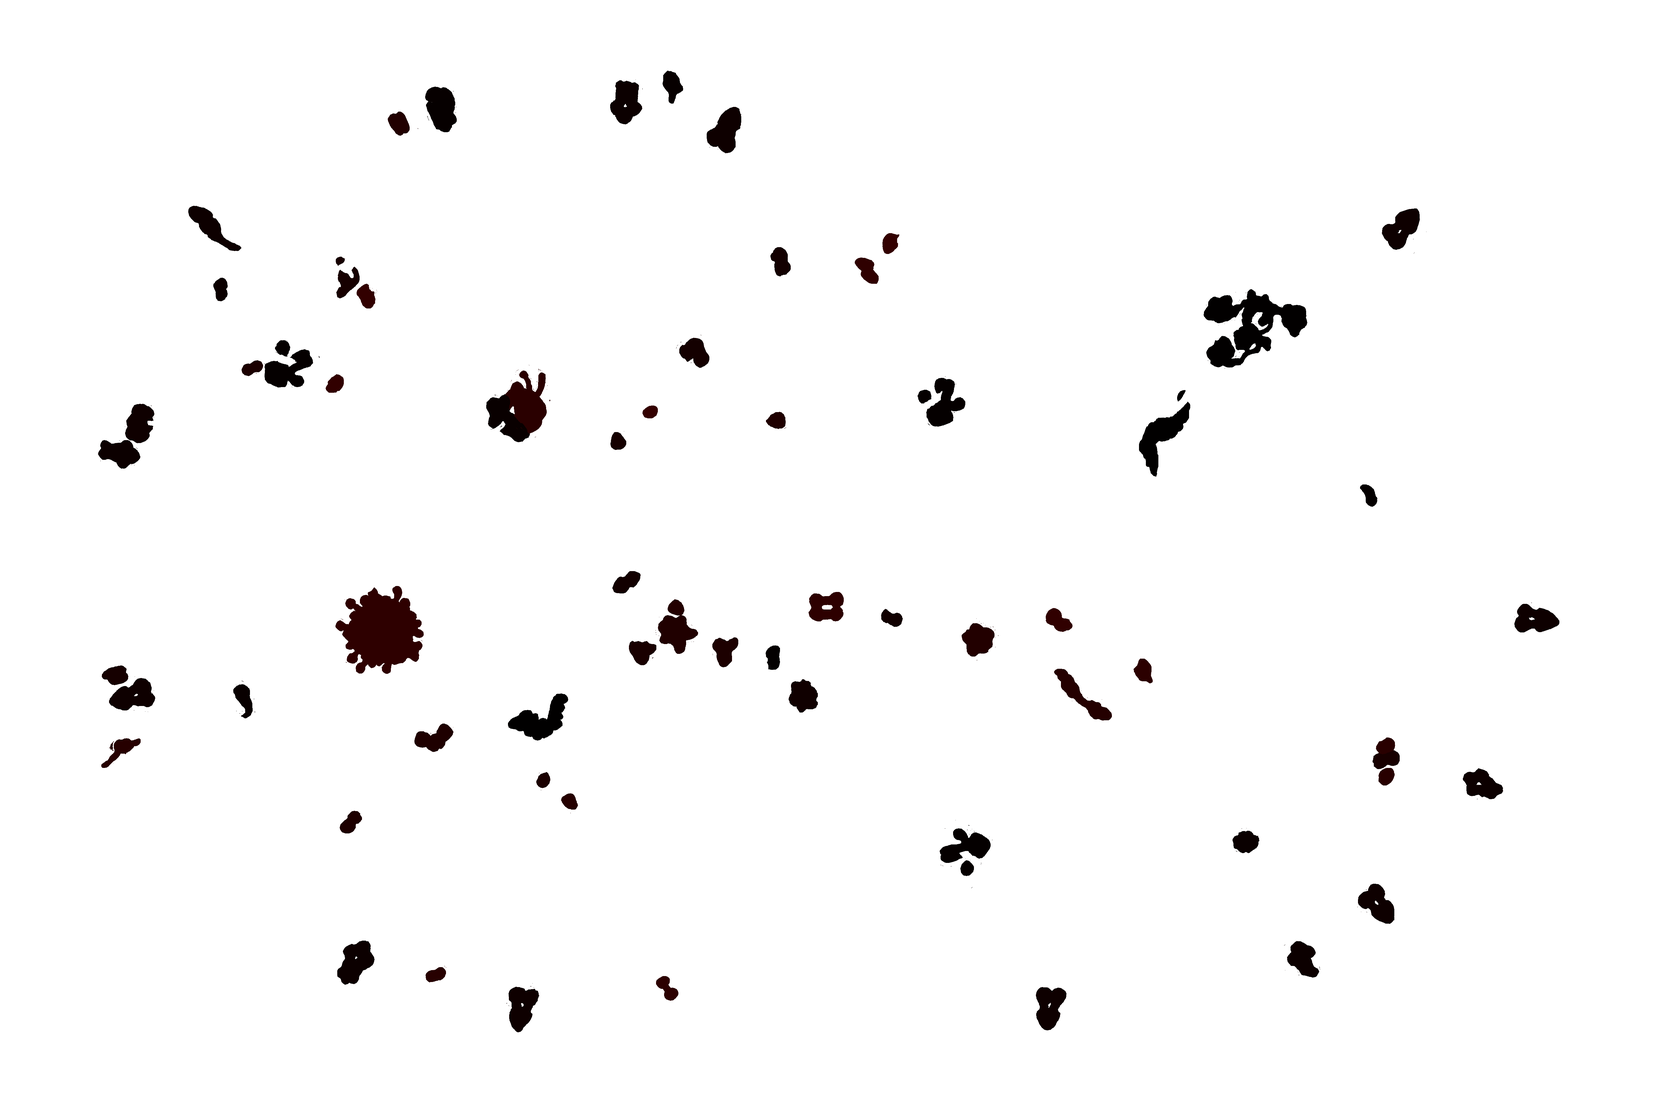
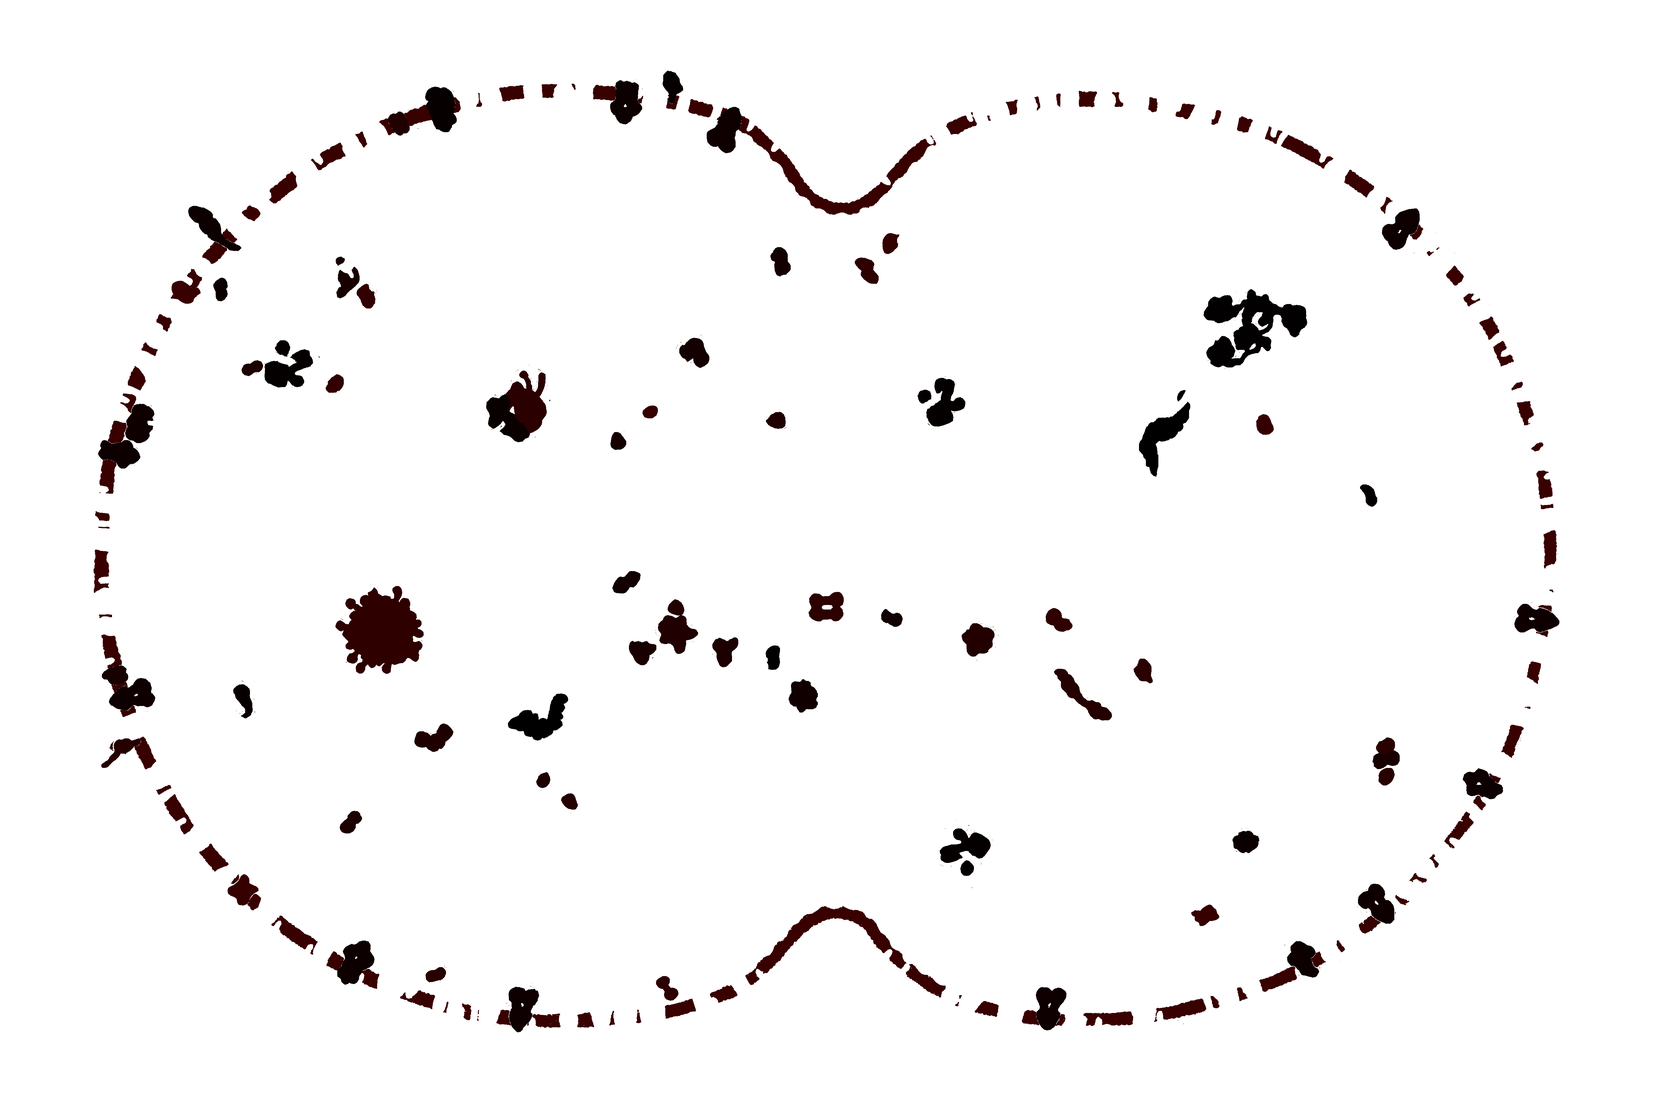
Add clickable phospholipid membrane with related-enzyme highlighting
Adds the membrane band as a product (id "membrane" — a non-gene
structural entry, empty loci, no locus-number cutout naming) along
with the 4 remaining phosphatidylglycerol pathway enzymes: PlsC
(0512), CdsA (0304), PgsA (0875), and PgpA (0214), completing the
fatty-acid-uptake-to-finished-lipid chain alongside the previously
added FakA/FakB1/FakB2/PlsX/PlsY/AcpA/AcpS.

New relatedProductIds field (only set by the membrane) drives a
one-directional expanded-highlight: hovering/selecting the membrane
spotlights its own shape plus all 11 pathway enzymes' cutouts in the
illustration and their loci on the genome track, while hovering any
individual enzyme on its own still only highlights itself. Detail
panel gains a "Built by" section listing and linking to those related
products; the Loci table hides entirely for products (like the
membrane) with none of their own. validate-products.py now checks
relatedProductIds references resolve to real product ids.

diff --git a/app.js b/app.js
@@ -15,7 +15,11 @@
   const detailName = document.getElementById("detail-name");
   const detailFullName = document.getElementById("detail-fullname");
   const detailDescription = document.getElementById("detail-description");
+  const detailLociHeading = document.getElementById("detail-loci-heading");
+  const detailLociTable = document.getElementById("detail-loci-table");
   const detailLociBody = document.getElementById("detail-loci-body");
+  const detailRelatedHeading = document.getElementById("detail-related-heading");
+  const detailRelated = document.getElementById("detail-related");
   const detailLinks = document.getElementById("detail-links");
   const detailClose = document.getElementById("detail-close");
   const trackSvg = document.getElementById("genome-track");
@@ -36,6 +40,20 @@
 
   function getProduct(id) {
     return PRODUCTS.find((p) => p.id === id) || null;
+  }
+
+  // The active (hover-or-selection) product, plus any products it declares
+  // as `relatedProductIds` (e.g. the membrane lists the enzymes that build
+  // it) — everything in this set gets spotlighted together in the
+  // illustration and highlighted together on the genome track. One-way:
+  // a related product's own loci don't reference back to the membrane, so
+  // hovering e.g. PlsY on its own still only highlights itself.
+  function getActiveIds() {
+    const activeId = hoveredProductId || selectedProductId;
+    if (!activeId) return [];
+    const product = getProduct(activeId);
+    const related = (product && product.relatedProductIds) || [];
+    return [activeId, ...related];
   }
 
   function loadImage(src) {
@@ -59,7 +77,7 @@
     if (!product) return;
     cutoutLoadPromises[id] = loadImage(product.cutout).then((img) => {
       cutoutImages[id] = img;
-      if (id === hoveredProductId || id === selectedProductId) {
+      if (getActiveIds().includes(id)) {
         updateDimOverlay();
         if (id === selectedProductId) redrawSelectionLayer();
       }
@@ -105,23 +123,26 @@
   }
 
   // Redrawn only when the active (hover-or-selection) product changes: washes
-  // the whole canvas, then punches a transparent hole exactly over that
-  // product's own silhouette, revealing #colorImg beneath it undimmed while
-  // everything else visible stays washed out — the "spotlight" effect.
+  // the whole canvas, then punches a transparent hole exactly over the
+  // active product's own silhouette — and, if it declares any
+  // `relatedProductIds`, over each of theirs too — revealing #colorImg
+  // beneath undimmed while everything else visible stays washed out (the
+  // "spotlight" effect). Cutouts not yet loaded are silently skipped;
+  // ensureCutoutLoaded()'s callback re-runs this once they arrive.
   function updateDimOverlay() {
     dimCtx.clearRect(0, 0, IMAGE_WIDTH, IMAGE_HEIGHT);
-    const activeId = hoveredProductId || selectedProductId;
-    if (!activeId) return;
+    const activeIds = getActiveIds();
+    if (activeIds.length === 0) return;
 
     dimCtx.fillStyle = `rgba(${DIM_WASH_RGB}, ${DIM_WASH_OPACITY})`;
     dimCtx.fillRect(0, 0, IMAGE_WIDTH, IMAGE_HEIGHT);
 
-    const img = cutoutImages[activeId];
-    if (img) {
-      dimCtx.globalCompositeOperation = "destination-out";
-      dimCtx.drawImage(img, 0, 0);
-      dimCtx.globalCompositeOperation = "source-over"; // reset for next call
-    }
+    dimCtx.globalCompositeOperation = "destination-out";
+    activeIds.forEach((id) => {
+      const img = cutoutImages[id];
+      if (img) dimCtx.drawImage(img, 0, 0);
+    });
+    dimCtx.globalCompositeOperation = "source-over"; // reset for next call
   }
 
   function redrawSelectionLayer() {
@@ -131,7 +152,7 @@
   function setHovered(id) {
     if (id === hoveredProductId) return;
     hoveredProductId = id;
-    ensureCutoutLoaded(id);
+    getActiveIds().forEach(ensureCutoutLoaded);
     updateDimOverlay();
     updateTrackEmphasis();
     updateDetailPanel();
@@ -139,7 +160,7 @@
 
   function selectProduct(id) {
     selectedProductId = id;
-    ensureCutoutLoaded(id);
+    getActiveIds().forEach(ensureCutoutLoaded);
     redrawSelectionLayer();
     updateDimOverlay();
     updateTrackEmphasis();
@@ -233,10 +254,10 @@
   }
 
   function updateTrackEmphasis() {
-    const activeId = hoveredProductId || selectedProductId;
-    trackSvg.classList.toggle("has-active", !!activeId);
+    const activeIds = new Set(getActiveIds());
+    trackSvg.classList.toggle("has-active", activeIds.size > 0);
     trackSvg.querySelectorAll(".track-segment").forEach((seg) => {
-      seg.classList.toggle("active", seg.dataset.productId === activeId);
+      seg.classList.toggle("active", activeIds.has(seg.dataset.productId));
     });
   }
 
@@ -291,6 +312,13 @@
     detailDescription.textContent = product.description || "No description yet.";
     detailDescription.classList.toggle("placeholder", !product.description);
 
+    // Structural products like the membrane aren't gene-encoded themselves
+    // (empty loci) — hide the Loci table entirely rather than show an
+    // empty one.
+    const hasLoci = product.loci.length > 0;
+    detailLociHeading.style.display = hasLoci ? "" : "none";
+    detailLociTable.style.display = hasLoci ? "" : "none";
+
     detailLociBody.innerHTML = "";
     product.loci.forEach((locus) => {
       const tr = document.createElement("tr");
@@ -306,6 +334,31 @@
       tdCoords.textContent = coords;
       tr.append(tdLocus, tdGene, tdCoords);
       detailLociBody.appendChild(tr);
+    });
+
+    // "Built by" — the products this one declares as relatedProductIds
+    // (e.g. the membrane lists the enzymes that build it), each clickable
+    // to jump straight to that product.
+    const relatedIds = product.relatedProductIds || [];
+    detailRelatedHeading.style.display = relatedIds.length > 0 ? "" : "none";
+    detailRelated.style.display = relatedIds.length > 0 ? "" : "none";
+    detailRelated.innerHTML = "";
+    relatedIds.forEach((relatedId) => {
+      const relatedProduct = getProduct(relatedId);
+      if (!relatedProduct) return;
+      const li = document.createElement("li");
+      const a = document.createElement("a");
+      a.href = "#";
+      const locusTags = relatedProduct.loci.map((l) => l.locusTag).join(", ");
+      a.textContent = locusTags
+        ? `${relatedProduct.displayName} (${locusTags})`
+        : relatedProduct.displayName;
+      a.addEventListener("click", (e) => {
+        e.preventDefault();
+        selectProduct(relatedId);
+      });
+      li.appendChild(a);
+      detailRelated.appendChild(li);
     });
 
     detailLinks.innerHTML = "";

diff --git a/data/products.js b/data/products.js
@@ -760,5 +760,69 @@ const PRODUCTS = [
     links: [
       { label: "SynWiki", url: "https://synwiki.uni-goettingen.de/" }
     ]
+  },
+  {
+    id: "0512",
+    displayName: "PlsC",
+    fullName: "Acyl-phosphate glycerol 3-phosphate acyltransferase",
+    cutout: "cutouts/3A-512.png",
+    loci: [
+      { locusTag: "JCVISYN3A_0512", gene: "plsC", start: 321754, end: 322701, strand: "-" }
+    ],
+    description: "",
+    links: [
+      { label: "SynWiki", url: "https://synwiki.uni-goettingen.de/" }
+    ]
+  },
+  {
+    id: "0304",
+    displayName: "CdsA",
+    fullName: "Phosphatidate cytidylyltransferase",
+    cutout: "cutouts/3A-304.png",
+    loci: [
+      { locusTag: "JCVISYN3A_0304", gene: "cdsA", start: 187479, end: 188507, strand: "-" }
+    ],
+    description: "",
+    links: [
+      { label: "SynWiki", url: "https://synwiki.uni-goettingen.de/" }
+    ]
+  },
+  {
+    id: "0875",
+    displayName: "PgsA",
+    fullName: "CDP-diacylglycerol--glycerol-3-phosphate 3-phosphatidyltransferase",
+    cutout: "cutouts/3A-875.png",
+    loci: [
+      { locusTag: "JCVISYN3A_0875", gene: "pgsA", start: 524244, end: 524840, strand: "-" }
+    ],
+    description: "",
+    links: [
+      { label: "SynWiki", url: "https://synwiki.uni-goettingen.de/" }
+    ]
+  },
+  {
+    id: "0214",
+    displayName: "PgpA",
+    fullName: "Phosphatidylglycerophosphatase",
+    cutout: "cutouts/3A-214.png",
+    loci: [
+      { locusTag: "JCVISYN3A_0214", gene: "pgpA", start: 129342, end: 130163, strand: "+" }
+    ],
+    description: "",
+    links: [
+      { label: "SynWiki", url: "https://synwiki.uni-goettingen.de/" }
+    ]
+  },
+  {
+    id: "membrane",
+    displayName: "Phospholipid Membrane",
+    fullName: "Phospholipid bilayer membrane",
+    cutout: "cutouts/3A-membrane.png",
+    loci: [],
+    relatedProductIds: ["0616", "0617", "0420", "0117", "0419", "0621", "0513", "0512", "0304", "0875", "0214"],
+    description: "",
+    links: [
+      { label: "SynWiki", url: "https://synwiki.uni-goettingen.de/" }
+    ]
   }
 ];

diff --git a/index.html b/index.html
@@ -33,13 +33,16 @@
         <p id="detail-fullname" class="detail-fullname"></p>
         <p id="detail-description" class="detail-description"></p>
 
-        <h3>Loci</h3>
-        <table class="detail-loci">
+        <h3 id="detail-loci-heading">Loci</h3>
+        <table id="detail-loci-table" class="detail-loci">
           <thead>
             <tr><th>Locus tag</th><th>Gene</th><th>Coordinates</th></tr>
           </thead>
           <tbody id="detail-loci-body"></tbody>
         </table>
+
+        <h3 id="detail-related-heading">Built by</h3>
+        <ul id="detail-related" class="detail-links"></ul>
 
         <h3>Links</h3>
         <ul id="detail-links" class="detail-links"></ul>

diff --git a/data/swatch-colors.js b/data/swatch-colors.js
@@ -53,4 +53,9 @@ const SWATCH_COLORS = {
   "0616": "rgb(103, 169, 196)",
   "0617": "rgb(97, 153, 186)",
   "0621": "rgb(101, 160, 186)",
+  "0512": "rgb(105, 165, 190)",
+  "0304": "rgb(101, 168, 189)",
+  "0875": "rgb(90, 156, 95)",
+  "0214": "rgb(117, 174, 110)",
+  "membrane": "rgb(195, 211, 185)",
 };

diff --git a/tools/validate-products.py b/tools/validate-products.py
@@ -5,8 +5,9 @@ genome coordinate range, independent of id-map generation.
 
 Catches the mistakes that are easy to make by hand once PRODUCTS has
 hundreds of entries: a cutout path that doesn't exist, a blank cutout, a
-duplicate id, the same locus copy-pasted into two different products, or
-a locus's coordinates outside the genome / with start >= end.
+duplicate id, the same locus copy-pasted into two different products, a
+locus's coordinates outside the genome / with start >= end, or a
+`relatedProductIds` entry that references an id no product actually has.
 
 This does not modify anything -- it only reports problems.
 
@@ -49,6 +50,7 @@ def main():
             "id": p.get("id"),
             "displayName": p.get("displayName"),
             "cutout": p.get("cutout"),
+            "relatedProductIds": p.get("relatedProductIds") or [],
             "loci": [
                 {
                     "locusTag": l.get("locusTag"),
@@ -65,6 +67,7 @@ def main():
 
     errors = []
 
+    all_ids = {p["id"] for p in products if p["id"]}
     seen_ids = {}
     seen_cutouts = {}
     seen_locus_tags = {}
@@ -128,6 +131,12 @@ def main():
 
             if locus["strand"] not in (None, "+", "-"):
                 errors.append(f"{label}/{tag}: strand {locus['strand']!r} is not '+', '-', or null")
+
+        for related_id in p["relatedProductIds"]:
+            if related_id not in all_ids:
+                errors.append(
+                    f"{label}: relatedProductIds references {related_id!r}, which isn't a known product id"
+                )
 
     if warnings:
         print(f"{len(warnings)} warning(s) (review, but non-fatal):\n")

diff --git a/CLAUDE.md b/CLAUDE.md
@@ -43,9 +43,9 @@ A matching launch config already exists at `.claude/launch.json` (name `syn3a-st
 <canvas id="selectionCanvas"> <!-- selected product's cutout + CSS glow outline -->
 ```
 
-All currently-defined products show in their real color by default via `#colorImg` (`assets/color-composite.webp`, precomputed offline — see "Derived assets" below); the grey background shows through only where no cutout exists. Hovering/selecting a product doesn't reveal color (it's already visible) — it spotlights: `updateDimOverlay()` fills `dimCanvas` with a translucent dark wash, then uses `globalCompositeOperation = "destination-out"` with the active product's own cutout to erase a hole exactly over its silhouette, dimming everything else. `selectionCanvas` sits above the dim overlay so a persisted selection stays undimmed even while hovering something else elsewhere.
+All currently-defined products show in their real color by default via `#colorImg` (`assets/color-composite.webp`, precomputed offline — see "Derived assets" below); the grey background shows through only where no cutout exists. Hovering/selecting a product doesn't reveal color (it's already visible) — it spotlights: `updateDimOverlay()` fills `dimCanvas` with a translucent dark wash, then uses `globalCompositeOperation = "destination-out"` with the active product's own cutout (and, if it has any, each of its `relatedProductIds`' cutouts too — see "Product data" below) to erase holes exactly over their silhouettes, dimming everything else. `selectionCanvas` sits above the dim overlay so a persisted selection stays undimmed even while hovering something else elsewhere.
 
-The active product's own cutout (needed only for the two effects above) isn't loaded until the product is first hovered or selected (`ensureCutoutLoaded()`) — not eagerly at init — since most of the 40+ cutouts are never touched in a given visit. `updateDimOverlay()`/`redrawSelectionLayer()` already no-op safely if that image hasn't arrived yet, so `ensureCutoutLoaded()` just kicks off the load and re-applies the effect once it resolves, if the product in question is still active.
+A cutout (needed only for the two effects above) isn't loaded until its product is first hovered or selected, whether directly or via another product's `relatedProductIds` (`ensureCutoutLoaded()`) — not eagerly at init — since most of the 40+ cutouts are never touched in a given visit. `updateDimOverlay()`/`redrawSelectionLayer()` already no-op safely if an image hasn't arrived yet, so `ensureCutoutLoaded()` just kicks off the load and re-applies the effect once it resolves, if the product in question is still part of the active set (`getActiveIds()`).
 
 ### Derived assets: `tools/build-assets.py`
 
@@ -67,7 +67,7 @@ Unlike `build-assets.py`'s regex scan, this reads `data/products.js` by actually
 
 ### State model
 
-Two variables drive everything: `hoveredProductId`, `selectedProductId`. The recurring pattern `const activeId = hoveredProductId || selectedProductId` (hover takes priority, falls back to selection) appears independently in three places that all need to react to the same "what's currently active" concept: `updateDimOverlay()`, `updateTrackEmphasis()` (genome track), and `updateDetailPanel()` (via `getActiveProduct()`). The illustration and the genome track's SVG both call the exact same `setHovered()`/`selectProduct()`/`deselectProduct()` mutators (the genome track's listeners are delegated on the `<svg>` root via `event.target.closest('.track-segment')`), which is what makes hover/click bidirectional between the two.
+Two variables drive everything: `hoveredProductId`, `selectedProductId`. `getActiveIds()` is the shared "what's currently active" helper (hover takes priority, falls back to selection) — it returns `[activeId, ...relatedIds]`, expanding to a product's `relatedProductIds` if it has any (see "Product data" below). `updateDimOverlay()`, `updateTrackEmphasis()` (genome track), and `ensureCutoutLoaded()`'s post-load check all consume this same set, so the membrane's related enzymes light up consistently everywhere; `updateDetailPanel()` (via `getActiveProduct()`) still only ever describes the one directly-active product, with its related products listed separately (see "Detail panel" below). The illustration and the genome track's SVG both call the exact same `setHovered()`/`selectProduct()`/`deselectProduct()` mutators (the genome track's listeners are delegated on the `<svg>` root via `event.target.closest('.track-segment')`), which is what makes hover/click bidirectional between the two.
 
 ### Genome track
 
@@ -77,9 +77,13 @@ Two variables drive everything: `hoveredProductId`, `selectedProductId`. The rec
 
 Height is JS-synced to the illustration's rendered height via a `ResizeObserver` (`syncPanelHeight`), not CSS — a plain `align-items: stretch` was tried and rejected because it let the panel's content override the illustration's `aspect-ratio` sizing. Long content (e.g. a 20-locus table) scrolls internally (`overflow-y: auto`) rather than growing the box. The panel is always present in the layout (never `display: none`) with an `.is-empty` state showing a placeholder, specifically so the illustration never resizes when the panel's content changes.
 
+The Loci table is hidden entirely (not just empty) for products with no loci of their own, like the membrane. A separate "Built by" list shows a product's `relatedProductIds` (if any) as clickable entries — clicking one calls `selectProduct()` directly, jumping straight to that product without needing to find it in the illustration or track first.
+
 ### Product data (`data/products.js`)
 
 Each entry: `id` (4-digit locus string), `displayName`, `fullName`, `cutout` (path), `loci` (array of `{locusTag, gene, start, end, strand}` — `gene`/coordinates may be `null` if not yet known), `description`, `links`. `swatchColor` is *not* stored in this file — `app.js` assigns it at init from the generated `data/swatch-colors.js` (see "Derived assets" above), so it always matches the artwork without manual color-picking, without needing to be recomputed by every visitor's browser.
+
+**Non-gene structural entries** (currently just the membrane) break the usual shape: `id` is a descriptive string instead of a locus number (`"membrane"`, not `"0XXX"` — nothing else keys off the id's format), `cutout` doesn't follow the `3A-0XXX.png` naming convention either, and `loci` is `[]` since the entry isn't encoded by any single gene — it gets no genome-track segment of its own. Instead it sets **`relatedProductIds`** (optional on any product, currently only used by the membrane): an array of other products' `id`s that should highlight alongside it — both in the illustration (their own cutouts spotlighted together, see "four stacked layers" above) and on the genome track (their loci highlighted together, see "State model" above) — whenever *this* product is the active one. It's one-directional: those related products don't reference the membrane back, so hovering e.g. PlsY by itself still only highlights PlsY. `tools/validate-products.py` checks that every id inside a `relatedProductIds` array actually matches a real product.
 
 ## Adding a new product
 

diff --git a/DECISIONS.md b/DECISIONS.md
@@ -20,7 +20,7 @@ spotlight.
 
 ## id-map.png is generated then hand-editable, not rebuilt live in-browser
 
-`tools/build-idmap.py` produces a real file on disk; the browser just loads
+`tools/build-assets.py` produces a real file on disk; the browser just loads
 it once at init and never regenerates it.
 
 **Why:** the original design built the id-map live in-browser, including
@@ -56,6 +56,27 @@ catching duplicate ids/cutouts is enough guardrail at this scale.
 Originally, `app.js` built both of these live on every page load: `computeSwatchColors()` drew each cutout onto a full 5612×3748 canvas and read the pixel data back to average its color, and `buildColorLayer()` drew all 40+ full-res cutouts onto a display canvas to produce the default colored illustration. Both are now precomputed offline by `tools/build-assets.py` into `data/swatch-colors.js` and `assets/color-composite.webp`, alongside the existing `id-map.png` generation. Individual per-product cutouts (still needed for the hover/selection spotlight effects) now load lazily on first hover/select instead of all being fetched upfront.
 
 **Why:** profiling showed `computeSwatchColors()` alone cost ~5.8s and `buildColorLayer()` ~1.3s of every page load, versus ~300ms to fetch and decode all 40+ cutouts locally — the pixel-averaging and full-res canvas compositing were the actual bottleneck, not image loading. A first attempt at downscaling before reading back pixel data only got `computeSwatchColors()` to ~4.2s, since the cost is dominated by `drawImage`'s resampling filter over a 21-megapixel source, not just the `getImageData` readback. This mirrors the existing `id-map.png` precedent (a derived artifact generated offline and committed, not rebuilt live) rather than being a new pattern.
+
+## Membrane links to its building-block enzymes via `relatedProductIds`, not by listing their loci as its own
+
+The phospholipid membrane isn't encoded by a single gene — it's assembled by
+11 separate enzymes scattered across the genome. Considered folding all 11
+enzymes' loci directly into the membrane's own `loci` array (so it would
+"own" their genome-track segments), but instead gave the membrane an empty
+`loci` and a new `relatedProductIds` field listing those 11 products' ids —
+each stays its own independent, individually-clickable product, and the
+membrane just references them.
+
+**Why:** if the membrane's `loci` array owned those segments directly,
+clicking e.g. the PlsY segment on the genome track would select the
+*membrane*, not PlsY — losing the ability to navigate to PlsY specifically
+(its own description, its own detail-panel entry). `relatedProductIds`
+keeps every enzyme independently selectable while still letting the
+membrane say "highlight all of these too" when it's the active product.
+The relationship is one-directional (hovering PlsY alone doesn't highlight
+the membrane or its siblings) to keep the mental model simple — only the
+one entry that declares `relatedProductIds` gets the expanded-highlight
+behavior, everything else behaves exactly as before.
 
 ## Detail panel is always visible (placeholder when empty), height synced via ResizeObserver
 
